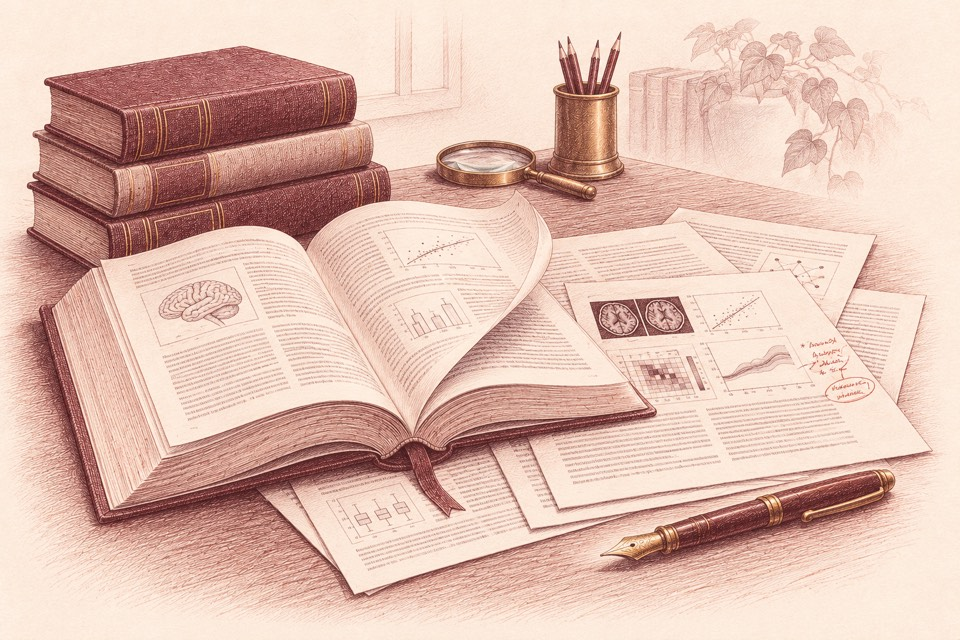
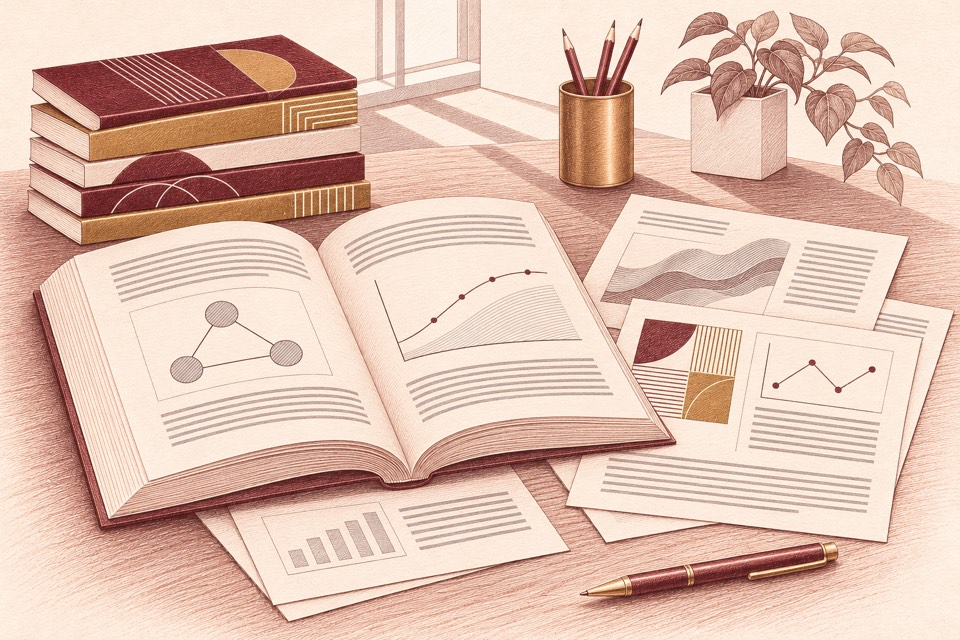
Modernise the Publications page illustration

diff --git a/publications.html b/publications.html
@@ -33,7 +33,7 @@
 
     <main class="page">
       <section class="page-header illustrated-intro">
-        <img src="assets/publications-sketch.jpg" width="960" height="640" alt="Open book and annotated research papers beside a stack of bound volumes." />
+        <img src="assets/publications-sketch.jpg?v=modern" width="960" height="640" alt="Open book, journal proofs, and a stack of geometric book covers on a sunlit desk." />
         <div>
         <p class="eyebrow">Publications</p>
         <h1>Selected Publications</h1>
